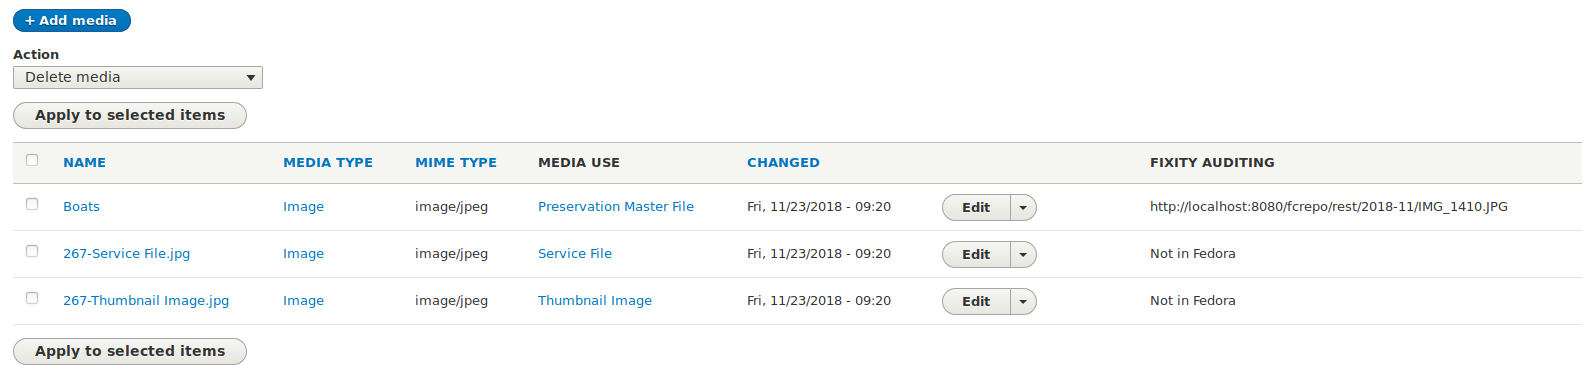
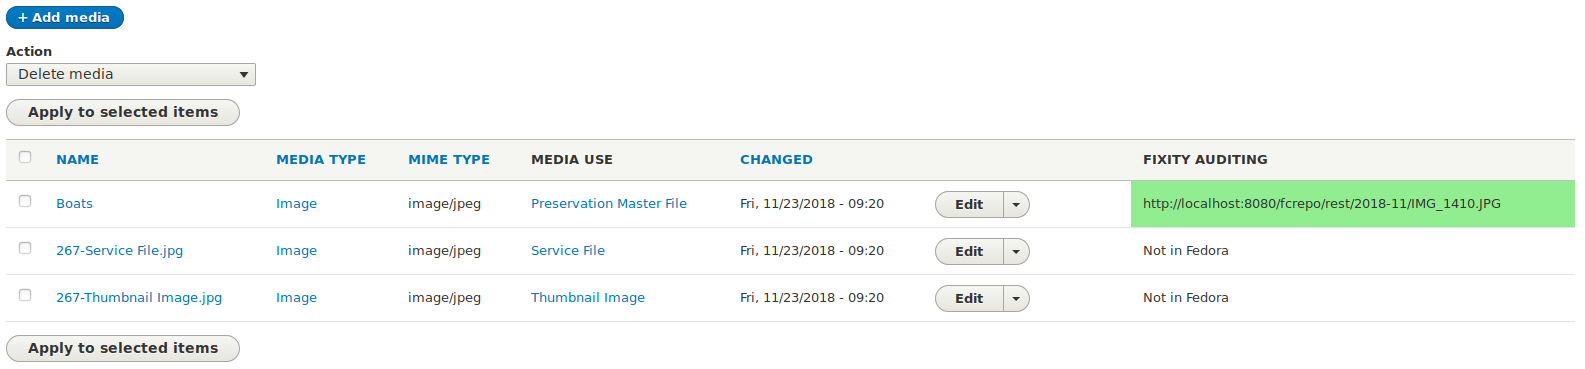
Work on adding Riprap results as a custom Views field.

diff --git a/js/islandora_riprap.js b/js/islandora_riprap.js
@@ -1,0 +1,6 @@
+(function (Drupal, $) {
+  "use strict";
+  // For demonstration purposes only.
+  $('.views-field-riprap-results:contains("fcrepo/rest")').css('background-color', '#90EE90');
+}) (Drupal, jQuery);
+

diff --git a/src/Plugin/views/field/RiprapResults.php b/src/Plugin/views/field/RiprapResults.php
@@ -4,6 +4,7 @@ namespace Drupal\islandora_riprap\Plugin\views\field;
 
 use Drupal\views\Plugin\views\field\FieldPluginBase;
 use Drupal\views\ResultRow;
+use Drupal\Core\Url;
 
 /**
  * Field plugin that renders data for Media from Riprap.
@@ -33,12 +34,19 @@ class RiprapResults extends FieldPluginBase {
     $media = $value->_entity;
     $mid = $media->id();
     $binary_resource_uuid = $this->getFileUuid($mid);
-    $url = $this->getFedoraUrl($binary_resource_uuid);
+    
+    if ($this->use_drupal_urls) {
+      $url = $this->getLocalUrl($mid);
+    }
+    else {
+      $url = $this->getFedoraUrl($binary_resource_uuid);
+    }
+
     return $url;
   }
 
   /**
-   * Given a Media id, get the corresponding FileUUID.
+   * Given a Media id, get the corresponding File's UUID.
    *
    * @param int $mid
    *   A Media ID.
@@ -69,13 +77,13 @@ class RiprapResults extends FieldPluginBase {
   }
 
   /**
-   * Get a Fedora URL for the entity from Gemini.
+   * Get a Fedora URL for a File entity from Gemini.
    *
    * @param string $uuid
-   *   The entity's UUID.
+   *   The File entity's UUID.
    *
    * @return string
-   *    The Fedora URL, or a message.
+   *    The Fedora URL corresponding to the UUID, or a message.
   */
   private function getFedoraUrl($uuid) {
     try {
@@ -109,4 +117,86 @@ class RiprapResults extends FieldPluginBase {
     }
   }
 
+  /**
+   * Given a Media id, get the corresponding File's local Drupal URL.
+   *
+   * Used for files that are not stored in Fedora.
+   *
+   * @param int $mid
+   *   A Media ID.
+   *
+   * @return string
+   *   The local URL of the file associated with the incoming Media entity.
+   */
+  public function getLocalUrl($mid) {
+    $media_fields = array(
+      'field_media_file',
+      'field_media_image',
+      'field_media_audio_file',
+      'field_media_video_file',
+    );
+    $media = \Drupal\Media\Entity\Media::load($mid);
+    // Loop through each of the media fields and get the UUID of the File
+    // in the first one encountered. Assumes each Media entity has only
+    // one of the media file fields.
+    foreach ($media_fields as $media_field) {
+      if (isset($media->$media_field)) {
+        $url = file_create_url($media->$media_field->entity->getFileUri());
+        return $url;
+      }
+    }
+  }
+
+  /**
+   * Query Riprap for fixity events on the given resource.
+   *
+   * @param int $url
+   *   The Media resource's URL.
+   *
+   * @return string
+   *   The JSON response from Riprap.
+   */
+  private function queryRiprap($url) {
+    try {
+      $client = \Drupal::httpClient();
+      // Assumes Riprap requires no authentication (e.g., it's behind the Symfony or other firewall).
+      $options = [
+        'headers' => ['Resource-ID' => $url],
+        'query' => ['limit' => $this->number_of_events, 'sort' => 'desc'],
+      ];
+      $response = $client->request('GET', $this->riprap_endpoint, $options);
+      $code = $response->getStatusCode();
+      if ($code == 200) {
+        $body = $response->getBody()->getContents();
+      }
+      else {
+        \Drupal::logger('islandora_riprap')->error('HTTP response code returned by Riprap: @code', array('@code' => $code));
+      }
+    }
+    catch (RequestException $e) {
+       \Drupal::logger('islandora_riprap')->error($e->getMessage());
+       return "Sorry, there has been an error connecting to Riprap, please refer to the system log";
+    }
+
+    return $body;
+  }
+
 }
+
+/*
+    $sample_riprap_output = '[{"event_uuid":"cdecb9ac-5938-4992-b5b7-8ef9e4e94c62","resource_id":"http:\/\/localhost:8000\/mockrepository\/rest\/11","event_type":"fix","timestamp":"2018-10-20T07:35:04-0800","digest_algorithm":"SHA-1","digest_value":"339e2ebc99d2a81e7786a466b5cbb9f8b3b81377","event_detail":"","event_outcome":"suc","event_outcome_detail_note":"Fedora says hi."},{"event_uuid":"f26ed6cc-e6e2-4ebe-9607-5ad7a2e4b857","resource_id":"http:\/\/localhost:8000\/mockrepository\/rest\/11","event_type":"fix","timestamp":"2018-10-29T07:35:04-0800","digest_algorithm":"SHA-1","digest_value":"339e2ebc99d2a81e7786a466b5cbb9f8b3b81377","event_detail":"","event_outcome":"suc","event_outcome_detail_note":"Fedora says hi."},{"event_uuid":"af60c8d5-7504-4be0-a355-06177855b8b8","resource_id":"http:\/\/localhost:8000\/mockrepository\/rest\/11","event_type":"ing","timestamp":"2018-11-20T07:35:04-0800","digest_algorithm":"SHA-1","digest_value":"339e2ebc99d2a81e7786a466b5cbb9f8b3b81377","event_detail":"","event_outcome":"fail","event_outcome_detail_note":""}]';
+    $riprap_output_as_array = json_decode($sample_riprap_output, true);
+    $successful_events = 0;
+    $failed_events = 0;
+    foreach ($riprap_output_as_array as $event) {
+      if ($event['event_outcome'] == 'suc') {
+        $successful_events++;
+      }
+      if ($event['event_outcome'] == 'fail') {
+        $failed_events++;
+      }
+    }
+
+    $output = "Report from sample Riprap data (3 events): $successful_events successful events, $failed_events failed events.";
+*/
+

diff --git a/README.md b/README.md
@@ -37,6 +37,8 @@ Now, when you click on the "Media" tab in an Islandora object node, you will see
 
 ![details](docs/islandora_riprap_details.png)
 
+(Note that the cell in green is for demonstration purposes only, to illustrate the use of color to indicate that all fixity events for a file were successful.)
+
 ## Current maintainer
 
 * [Mark Jordan](https://github.com/mjordan)
